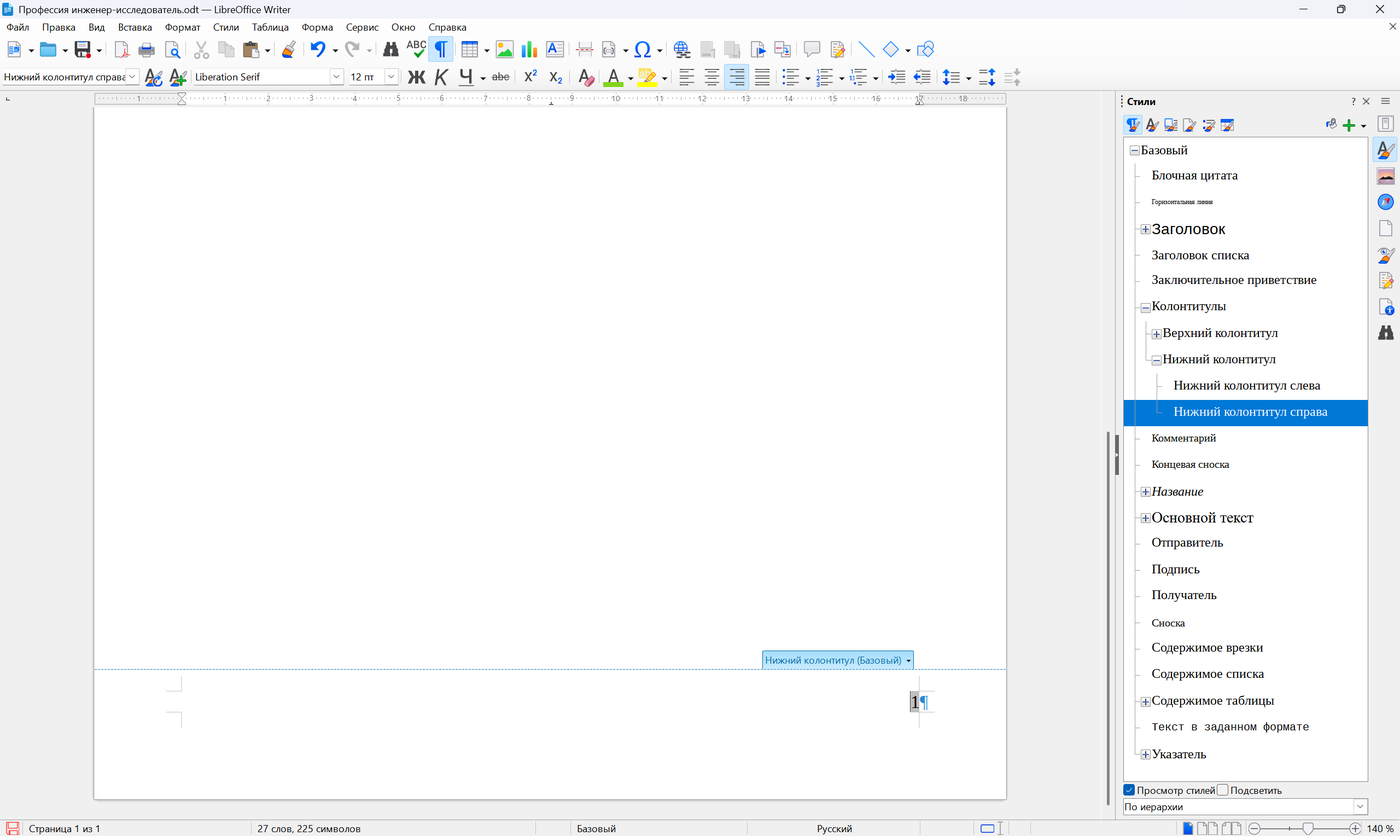
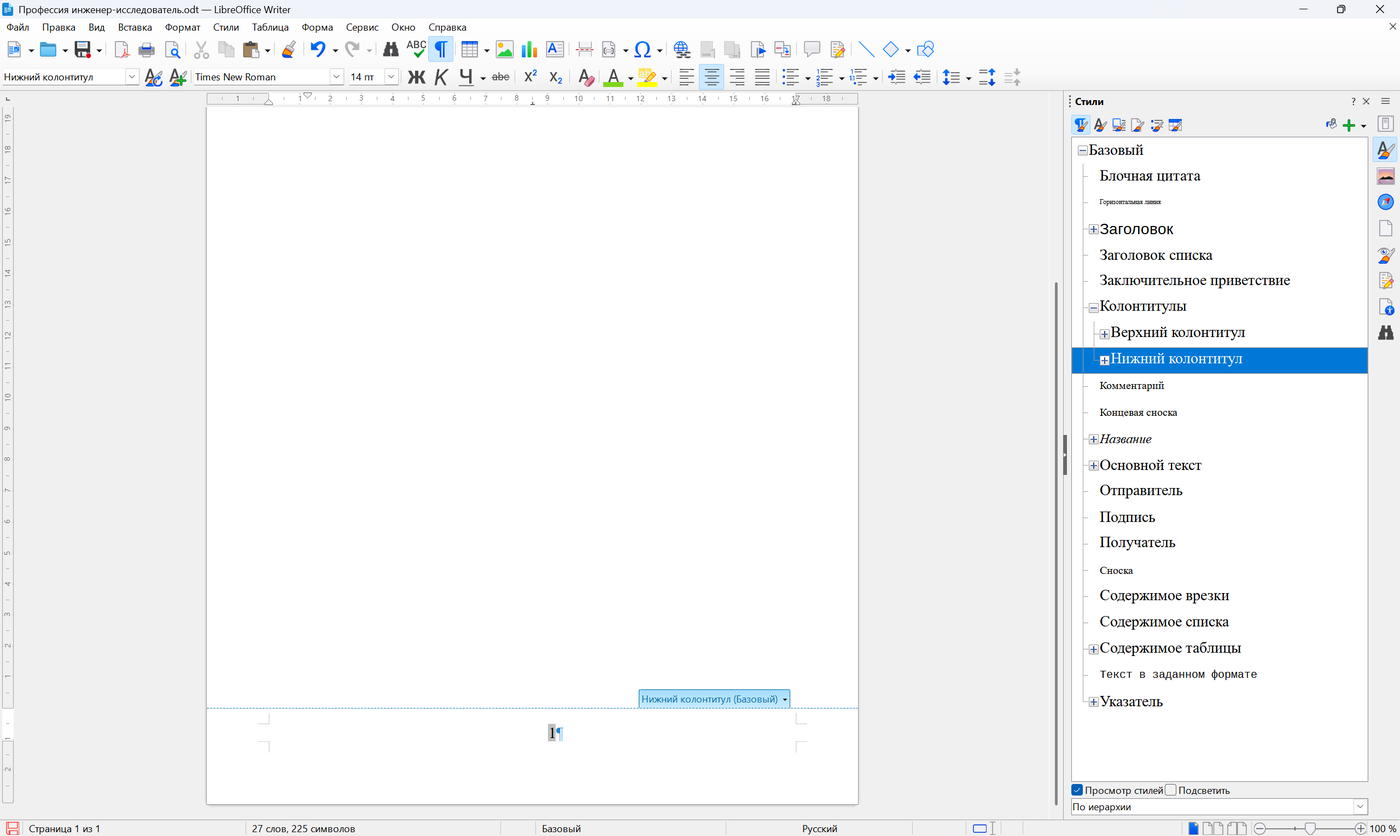
Добавил описания основных понятий в текстовые процессоры

diff --git a/Текстовый процессор/Основные понятия/Стиль.md b/Текстовый процессор/Основные понятия/Стиль.md
@@ -1,0 +1,58 @@
+---
+тема: Текстовый процессор
+автор: Иван Юрьевич Потылицын
+дата: 2025-09-05
+---
+
+> [!INFO] Определение
+> **Стиль в текстовом процессоре** — это набор заранее заданных параметров форматирования, который применяется к определённым фрагментам текста для быстрого и единообразного оформления документа.
+
+## Основные виды стилей
+
+В современных текстовых процессорах существует четыре основных типа стилей:
+
+- **Стили символов** — определяют форматирование отдельных символов (шрифт, размер, начертание).
+- **Стили абзацев** — задают параметры форматирования целых абзацев (отступы, выравнивание, интервалы).
+- **Стили таблиц** — устанавливают оформление таблиц.
+- **Стили списков** — определяют вид маркированных и нумерованных списков.
+
+## Преимущества использования стилей
+
+Применение стилей имеет ряд существенных преимуществ:
+
+- **Экономия времени** — вместо ручной настройки каждого параметра форматирования достаточно применить один стиль.
+
+- **Единообразие оформления** — все одинаковые элементы документа выглядят одинаково.
+
+- **Быстрое изменение оформления** — достаточно изменить стиль, и все элементы документа, оформленные этим стилем, автоматически обновятся.
+
+## Иерархия стилей
+
+Важно понимать, что стили имеют определённую иерархию:
+
+- **Ручное форматирование** имеет приоритет над стилем символов.
+- **Стиль символов** имеет приоритет над стилем абзаца.
+
+## Практическое применение
+
+Стили можно:
+
+- **Применять** к выделенному тексту через специальную панель инструментов.
+- **Создавать новые** на основе существующих или с нуля.
+- **Редактировать** существующие, изменяя их параметры.
+- **Удалять** ненужные стили из документа.
+
+## Рекомендации по работе со стилями
+
+При работе со стилями следует придерживаться следующих правил:
+
+- Каждый новый тип форматирования должен иметь свой уникальный стиль.
+- Избегайте дублирования стилей с одинаковым оформлением.
+- Давайте стилям осмысленные названия.
+- Используйте встроенные стили как основу для создания собственных.
+
+В любом текстовом документе, даже если вы не используете стили явно, каждый элемент всё равно относится к какому-либо стилю. Поэтому грамотное использование стилей — это ключ к эффективному оформлению документов и экономии времени при работе с текстом.
+
+> [!HINT] Совет
+> 
+> В любом текстовом документе, даже если вы не используете стили явно, каждый элемент всё равно относится к какому-либо стилю. Поэтому грамотное использование стилей — это ключ к эффективному оформлению документов и экономии времени при работе с текстом.

diff --git a/Текстовый процессор/Основные понятия/Заголовок.md b/Текстовый процессор/Основные понятия/Заголовок.md
@@ -1,0 +1,38 @@
+---
+тема: Текстовый процессор
+автор: Иван Юрьевич Потылицын
+дата: 2025-09-08
+---
+
+> [!INFO] Определение
+> 
+> **Заголовок** в текстовом процессоре — это специальный элемент оформления текста, который используется для выделения структурных частей документа и обозначения их иерархии.
+
+## Основные характеристики заголовков
+
+- **Стилистическое оформление**: отличаются от основного текста размером шрифта, начертанием и другими параметрами форматирования
+- **Иерархическая структура**: позволяют создать логическую организацию документа
+- **Функциональное назначение**: помогают в навигации по тексту и создании оглавления
+
+В современных текстовых процессорах, таких как Microsoft Word и [[LibreOffice]] [[Writer]], предусмотрены встроенные стили заголовков:
+
+- **Заголовок 1** — используется для обозначения глав или крупных разделов документа (самый крупный размер шрифта)
+- **Заголовок 2** — применяется для параграфов или подразделов внутри глав
+- **Заголовки 3-9** — используются для более детального структурирования текста в сложных документах
+
+## Преимущества использования заголовков
+
+- **Автоматическое оглавление**: возможность быстрого создания содержания документа
+- **Единообразие оформления**: быстрое применение одинакового стиля ко всем аналогичным элементам
+- **Навигация**: упрощение перемещения по документу
+- **Структурирование**: чёткое разделение текста на логические блоки
+
+## При работе с заголовками важно соблюдать следующие правила
+
+- Все заголовки одного уровня должны быть размечены одинаково
+- Необходимо правильно выбирать уровень заголовка в соответствии с иерархией документа
+- Стили заголовков можно настраивать под конкретные требования оформления
+
+> [!NOTE] Примечание
+> 
+> В современных текстовых процессорах также предусмотрена возможность создания пользовательских стилей заголовков с индивидуальными параметрами форматирования, что позволяет адаптировать оформление под конкретные требования документа.

diff --git a/Текстовый процессор/Основные понятия/Разрыв страницы.md b/Текстовый процессор/Основные понятия/Разрыв страницы.md
@@ -1,0 +1,53 @@
+---
+тема: Текстовый процессор
+автор: Иван Юрьевич Потылицын
+дата: 2025-09-08
+---
+
+> [!INFO] Определение
+> **Разрыв страницы** — это специальный символ в текстовых процессорах, который определяет место перехода текста на следующую страницу документа.
+
+ Существует два основных типа разрывов:
+ - Мягкие (программные)
+ - Жёсткие (принудительные)
+
+## Мягкие (программные) разрывы
+
+- Вставляются автоматически текстовым процессором
+- Их положение зависит от размера страницы и форматирования
+- Не могут быть удалены вручную
+- Отображаются в виде одинарной точечной линии (в режиме «Обычный»)
+- В режиме «Разметка страницы» не видны, так как совпадают с концом страницы
+
+## Жесткие (принудительные) разрывы
+
+- Вставляются пользователем вручную
+- Сохраняют фиксированное положение в документе
+- Могут быть удалены
+- Отображаются в виде точечной линии с текстом «разрыв страницы»
+- Позволяют логически структурировать документ
+
+## Способы вставки принудительного разрыва
+
+- **Комбинация клавиш**: CTRL + ENTER в нужном месте документа
+- **Через меню**:
+	1. Установить курсор в нужное место
+	2. Перейти во вкладку «Вставка»
+	3. Выбрать команду «Разрыв…»
+	4. Выбрать тип разрыва (например, «Новая страница»)
+- **Через параметры абзаца**:
+    1. Выделить абзац
+    2. Щелкнуть правой кнопкой мыши
+    3. Выбрать «Абзац»
+    4. Перейти во вкладку «Положение на странице»
+    5. Установить флажок «С новой страницы»
+
+## Важные рекомендации
+
+- Принудительные разрывы лучше вставлять на завершающей стадии подготовки документа
+- Перед печатью рекомендуется проверить документ на наличие лишних разрывов
+- При изменении текста программа автоматически перераспределяет мягкие разрывы
+- Жесткие разрывы помогают сохранить структуру документа при изменении его содержимого
+
+> [!HINT] Совет
+> Использование разрывов страниц позволяет эффективно управлять структурой документа и обеспечивает правильное отображение материала при печати.

diff --git a/Текстовый процессор/Основные понятия/Разметка текста.md b/Текстовый процессор/Основные понятия/Разметка текста.md
@@ -1,0 +1,38 @@
+---
+тема: Текстовый процессор
+автор: Иван Юрьевич Потылицын
+дата: 2025-09-05
+---
+
+> [!INFO] Определение
+> **Разметка текста** — это процесс кодирования и структурирования текстовой информации с помощью специальных символов или меток для управления его структурой, форматированием или отношениями между частями документа.
+
+Существует несколько основных видов разметки текста:
+
+- **Презентационная разметка** — используется в традиционных текстовых редакторах и представляет собой скрытые от пользователя двоичные коды, создающие эффект WYSIWYG («что видишь, то и получаешь»).
+
+- **Процедурная разметка** — встраивается в текст и содержит инструкции для программ по его обработке. Примеры: troff, TeX, Markdown.
+
+- **Описательная (семантическая) разметка** — используется для обозначения частей документа в соответствии с их содержанием. Примеры: LaTeX, HTML, XML.
+
+## Основные элементы логической разметки текста
+
+- **Заголовки** разных уровней для структурирования материала
+- Основной **текстовый контент**
+- **Врезки** — выделенные блоки информации
+- **Сноски и выноски** для дополнительных пояснений
+- **Подписи** к иллюстрациям
+- **Списки** для структурирования перечислений
+- **Таблицы** для наглядного представления данных
+
+## Разметка текста применяется для
+
+- Управления отображением документа
+- Обогащения содержания для автоматизированной обработки
+- Создания удобной структуры для чтения
+- Улучшения восприятия информации
+- Подготовки текста к публикации в различных форматах
+
+> [!NOTE] Примечание
+> 
+> В современных условиях разметка текста особенно важна при работе с цифровыми документами, веб-страницами и при подготовке материалов для машинного обучения и обработки естественного языка. Правильно размеченный текст легче читается, лучше воспринимается и эффективнее обрабатывается как человеком, так и компьютерными системами.

diff --git a/Текстовый процессор/Основные понятия/Текстовый файл.md b/Текстовый процессор/Основные понятия/Текстовый файл.md
@@ -1,0 +1,51 @@
+---
+тема: Текстовый процессор
+автор: Иван Юрьевич Потылицын
+дата: 2025-09-05
+---
+
+> [!INFO] Определение
+> **Текстовый файл** — это компьютерный файл, предназначенный для хранения текстовых данных в виде последовательности символов. В отличие от двоичных (бинарных) файлов, которые содержат закодированную или сжатую информацию, текстовые файлы хранят данные в читаемом формате.
+
+## Основные характеристики
+
+- **Содержимое** — последовательность буквенно-цифровых символов
+- **Кодировка** — обычно используется UTF-8 или ASCII
+- **Исполняемость** — не является исполняемым файлом
+- **Совместимость** — может быть открыт большинством текстовых редакторов
+
+## Типы текстовых файлов
+
+- **Обычный текст (.txt)** — простой текст без форматирования
+- **CSV-файлы (.csv)** — табличные данные, где поля разделены запятыми
+- **HTML-файлы (.html)** — веб-страницы с разметкой
+- **Markdown (.md)** — форматирование текста с помощью специальных символов
+- **Исходный код (.py, .js, .cpp)** — программный код на различных языках
+
+## Распространенные расширения
+
+- **.txt** — обычный текст
+- **.md** — Markdown
+- **.csv** — табличные данные
+- **.html** — веб-страницы
+- **.py** — Python-код
+- **.cpp** — C++ код
+
+## Преимущества текстовых файлов
+
+- **Простота использования** — легко создавать и редактировать
+- **Малый размер** — занимают меньше места по сравнению с другими форматами
+- **Универсальность** — совместимы с большинством устройств и программ
+- **Восстановление данных** — поврежденные файлы легче восстановить
+- **Совместное использование** — удобно передавать и хранить
+
+## Применение
+
+Текстовые файлы используются в различных сферах:
+
+- Программирование
+- Ведение логов
+- Хранение конфигураций
+- Обмен данными между программами
+- Создание веб-страниц
+- Хранение заметок и списков

diff --git a/Текстовый процессор/Задания/Добавить номера страниц.md b/Текстовый процессор/Задания/Добавить номера страниц.md
@@ -9,7 +9,7 @@
 
 - [ ] На страницах документа появился нижний [[колонтитул]]
 - [ ] В нижнем колонтитуле добавлено [[поле]] **Номер страницы**
-- [ ] Номер страницы отображается справа
+- [ ] Номер страницы отображается по центру
 
 > [!EXAMPLE] Пример
 > 
@@ -24,23 +24,22 @@
 
 ## Вставить нижний колонтитул
 
-- В верхнем меню нажать **Вставка** -> **Колонтитулы** -> **Нижний колонтитул** -> **Базовый**
+1. В верхнем меню нажать **Вставка** -> **[[Колонтитул|Колонтитулы]]** -> **Нижний колонтитул** -> **Базовый**
 
 ![[page-number-footer.png]]
 
 ## Добавить поле Номер страницы
 
-- В верхнем меню нажать **Вставка** -> **Поле** -> **Номер страницы**
+1. В верхнем меню нажать **Вставка** -> **[[Поле]]** -> **Номер страницы**
 
 ![[page-number-field.png]]
 
-## Выровнять номер по правому краю
+## Выровнять номер страницы по центру
 
-- Разметить абзац с полем номера страницы стилем **Нижний колонтитул справа**
+1. Обратить внимание на то, что по умолчанию стиль абзаца колонтитула [[Разметка текста|разметился]] стилем **Нижний колонтитул**
+2. Щёлкнуть правой кнопкой мыши по стилю **Нижний колонтитул**
+3. Нажать **Изменить стиль**
+4. В разделе **Выравнивание** выбрать **По центру**
+5. Нажать **Применить**
 
-![[page-number-rigth.png]]
-
-> [!NOTE] Примечание
-> Для того, чтобы номер страницы выравнивался по правому краю, можно было изменить настройки стиля **Нижний колонтитул**, который по умолчанию применился к абзацу в нижнем колонтитуле.
-> 
-> Но стиль с выравниванием справа уже был создан в программе. Осмысленно воспользоваться чем-то готовым - всегда хорошая идея!
+![[page-number-settings.png]]

diff --git a/Текстовый процессор/Материалы по текстовому процессору.md b/Текстовый процессор/Материалы по текстовому процессору.md
@@ -17,20 +17,21 @@
 
 ### Основные понятия
 
-1. Текстовый файл
+1. [[Текстовый файл]]
 2. [[Текстовый редактор]]
-3. Разметка текста
-4. [[Наследование стилей]]
-5. [[Текстовый процессор]]
-6. [[WYSIWYG]]
-7. [[WYSIWYM]]
+3. [[Разметка текста]]
+4. [[Текстовый процессор]]
+5. [[WYSIWYG]]
+6. [[WYSIWYM]]
+7. [[Стиль]]
 8. [[Абзац]]
-9. [[Колонтитул]]
-10. [[Поле]]
-11. [[Пункт]]
-12. [[Непечатаемые символы]]
-13. Заголовок
-14. Стиль
+9. [[Наследование стилей]]
+10. [[Заголовок]]
+11. [[Колонтитул]]
+12. [[Поле]]
+13. [[Пункт]]
+14. [[Непечатаемые символы]]
+15. [[Разрыв страницы]]
 
 ### Инструменты
 

diff --git a/Текстовый процессор/Задания по текстовому процессору.md b/Текстовый процессор/Задания по текстовому процессору.md
@@ -21,7 +21,7 @@
 1. [[Применить стиль к абзацам основного текста]]
 2. [[Добавить номера страниц]]
 3. [[Сделать автоматическую нумерацию заголовков и разметить их стили]]
-4. Добавить автоматическое оглавление
+4. [[Добавить автоматическое оглавление]]
 5. Добавить рисунки, создать стиль для их разметки и реализовать автоматическую нумерацию рисунков
 6. Добавить формулы, создать стиль для их разметки и реализовать автоматическую нумерацию формул
 7. Добавить перекрёстные ссылки на рисунки и формулы

diff --git a/Текстовый процессор/Задания/Применить стиль к абзацам основного текста.md b/Текстовый процессор/Задания/Применить стиль к абзацам основного текста.md
@@ -8,7 +8,7 @@
 
 - [ ] Создан файл
 - [ ] Добавлен [[абзац]] текста
-- [ ] Абзац размечен стилем **Основной текст**
+- [ ] Абзац [[Разметка текста|размечен]] стилем **Основной текст**
 - [ ] Настроен стиль **Основной текст**
 
 > [!EXAMPLE] Пример
@@ -47,7 +47,7 @@
 
 ![[paragraph-paragraph.png]]
 
-## Разметить [[абзац]] текста
+## [[Разметка текста|Разметить]] [[абзац]] текста
 
 1. Поставить курсор в любое место абзаца
 2. Дважды щёлкнуть мышкой по стилю **Основной текст** (по стилю, которым вы хотите разметить абзац, в котором находится курсор)

diff --git a/Текстовый процессор/Задания/Добавить автоматическое оглавление.md b/Текстовый процессор/Задания/Добавить автоматическое оглавление.md
@@ -1,0 +1,25 @@
+---
+тема: Текстовый процессор
+автор: Иван Юрьевич Потылицын
+дата: 2025-09-08
+задание: false
+---
+
+## Результат
+
+- [ ] В документе есть автоматически обновляемое Содержание
+
+> [!EXAMPLE] Пример
+> 
+> **Оформленный аккаунт на GitHub**
+> 
+> ![[ip-github.png]]
+> 
+> https://github.com/ivanpotylitcyn
+
+> [!HINT] Советы
+> - Совет
+
+> [!ERROR] Проблемы и решения
+> Если при регистрации возникнут проблемы, попробуйте:
+> - Решение

diff --git a/Текстовый процессор/Задания/Сделать автоматическую нумерацию заголовков и разметить их стили.md b/Текстовый процессор/Задания/Сделать автоматическую нумерацию заголовков и разметить их стили.md
@@ -224,7 +224,7 @@
 
 ## Настроить стили заголовков
 
-1. В стилях Заголовок 1, Заголовок 2 и Заголовок 3 задать:
+1. В стилях **Заголовок 1**, **Заголовок 2** и **Заголовок 3** задать:
 	1. Отступ первой строки 1,25 см
 	2. Интервалы перед и после абзацев по 0,00 см
 
@@ -252,4 +252,3 @@
 4. Убедиться, что между номерами и текстом заголовков установились пробелы
 
 ![[headers-tabs-after.png]]
-
